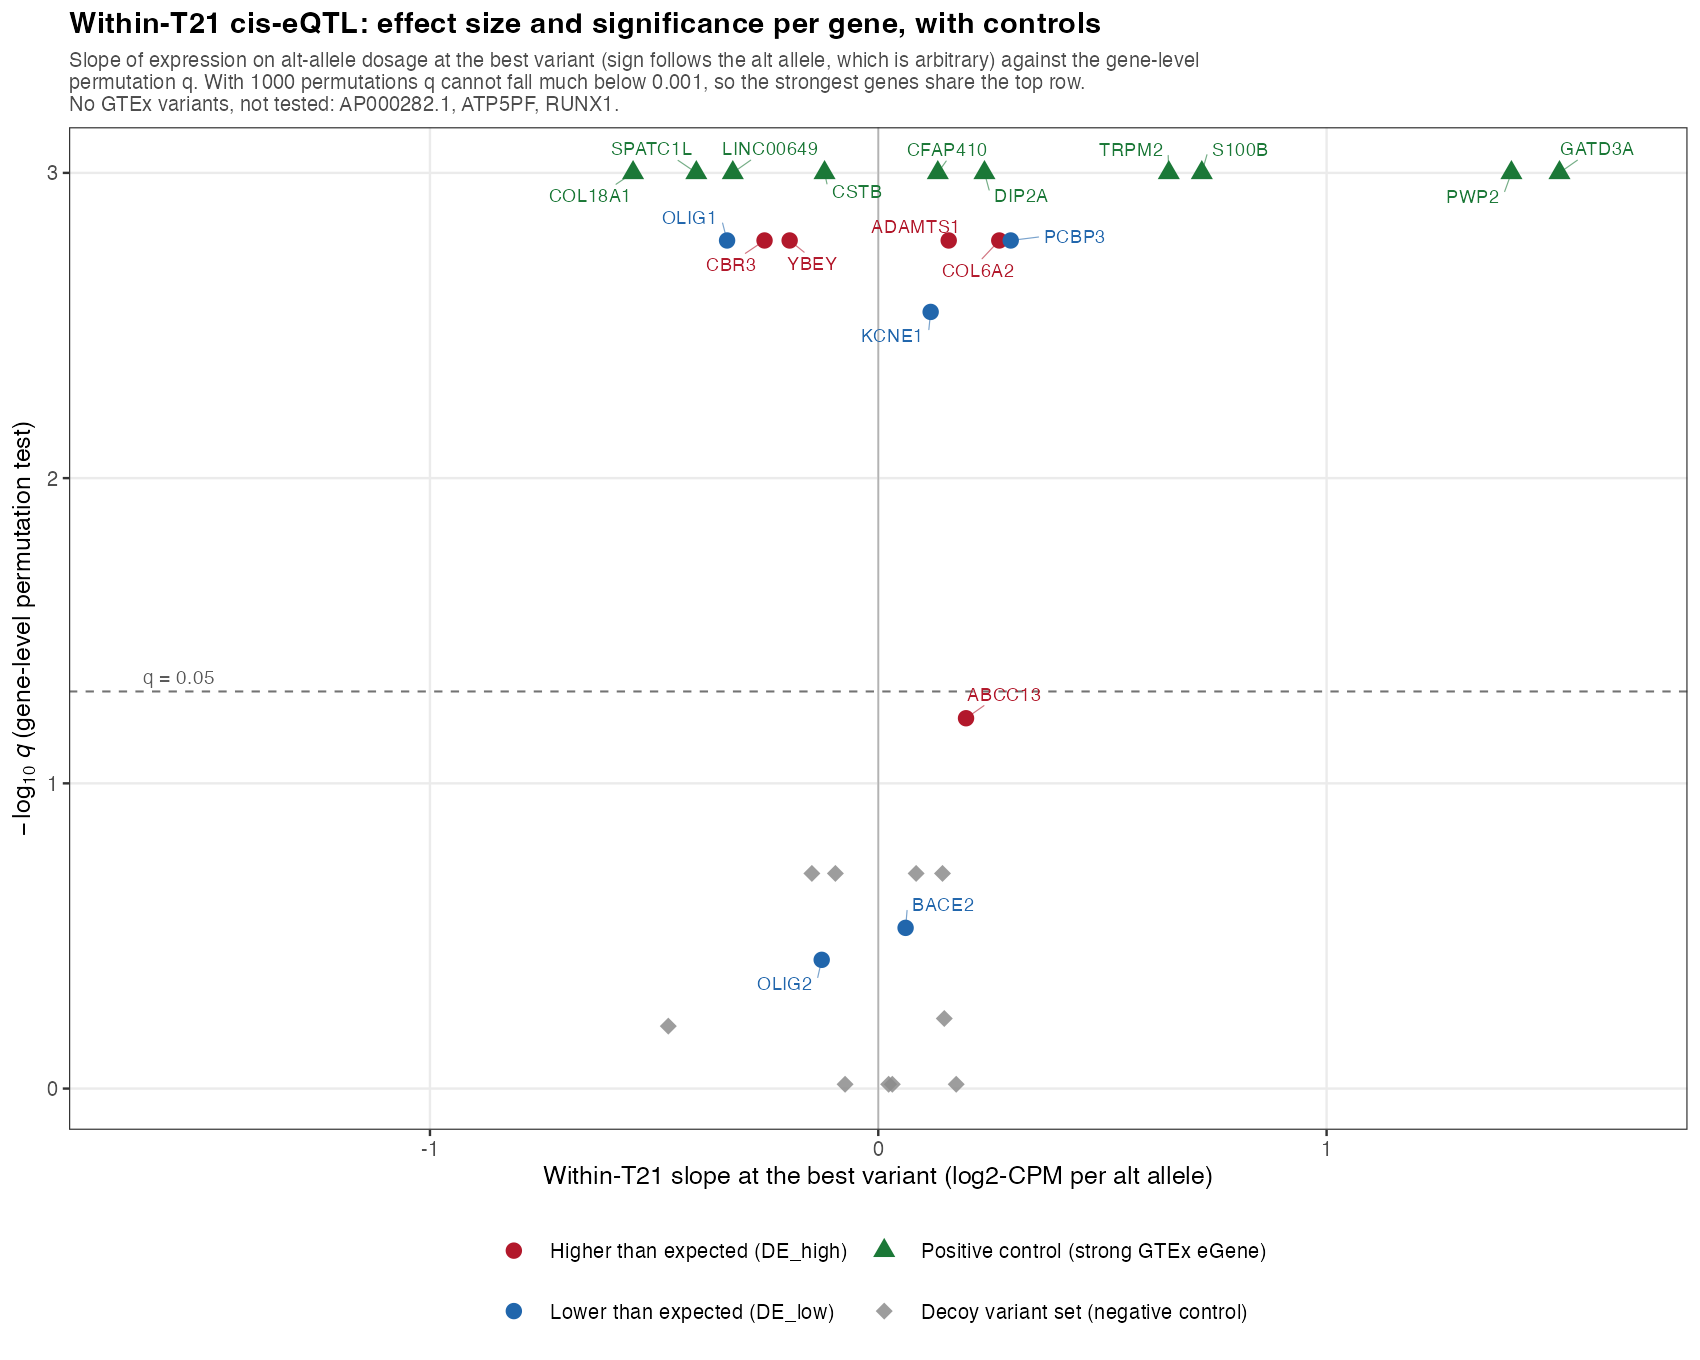
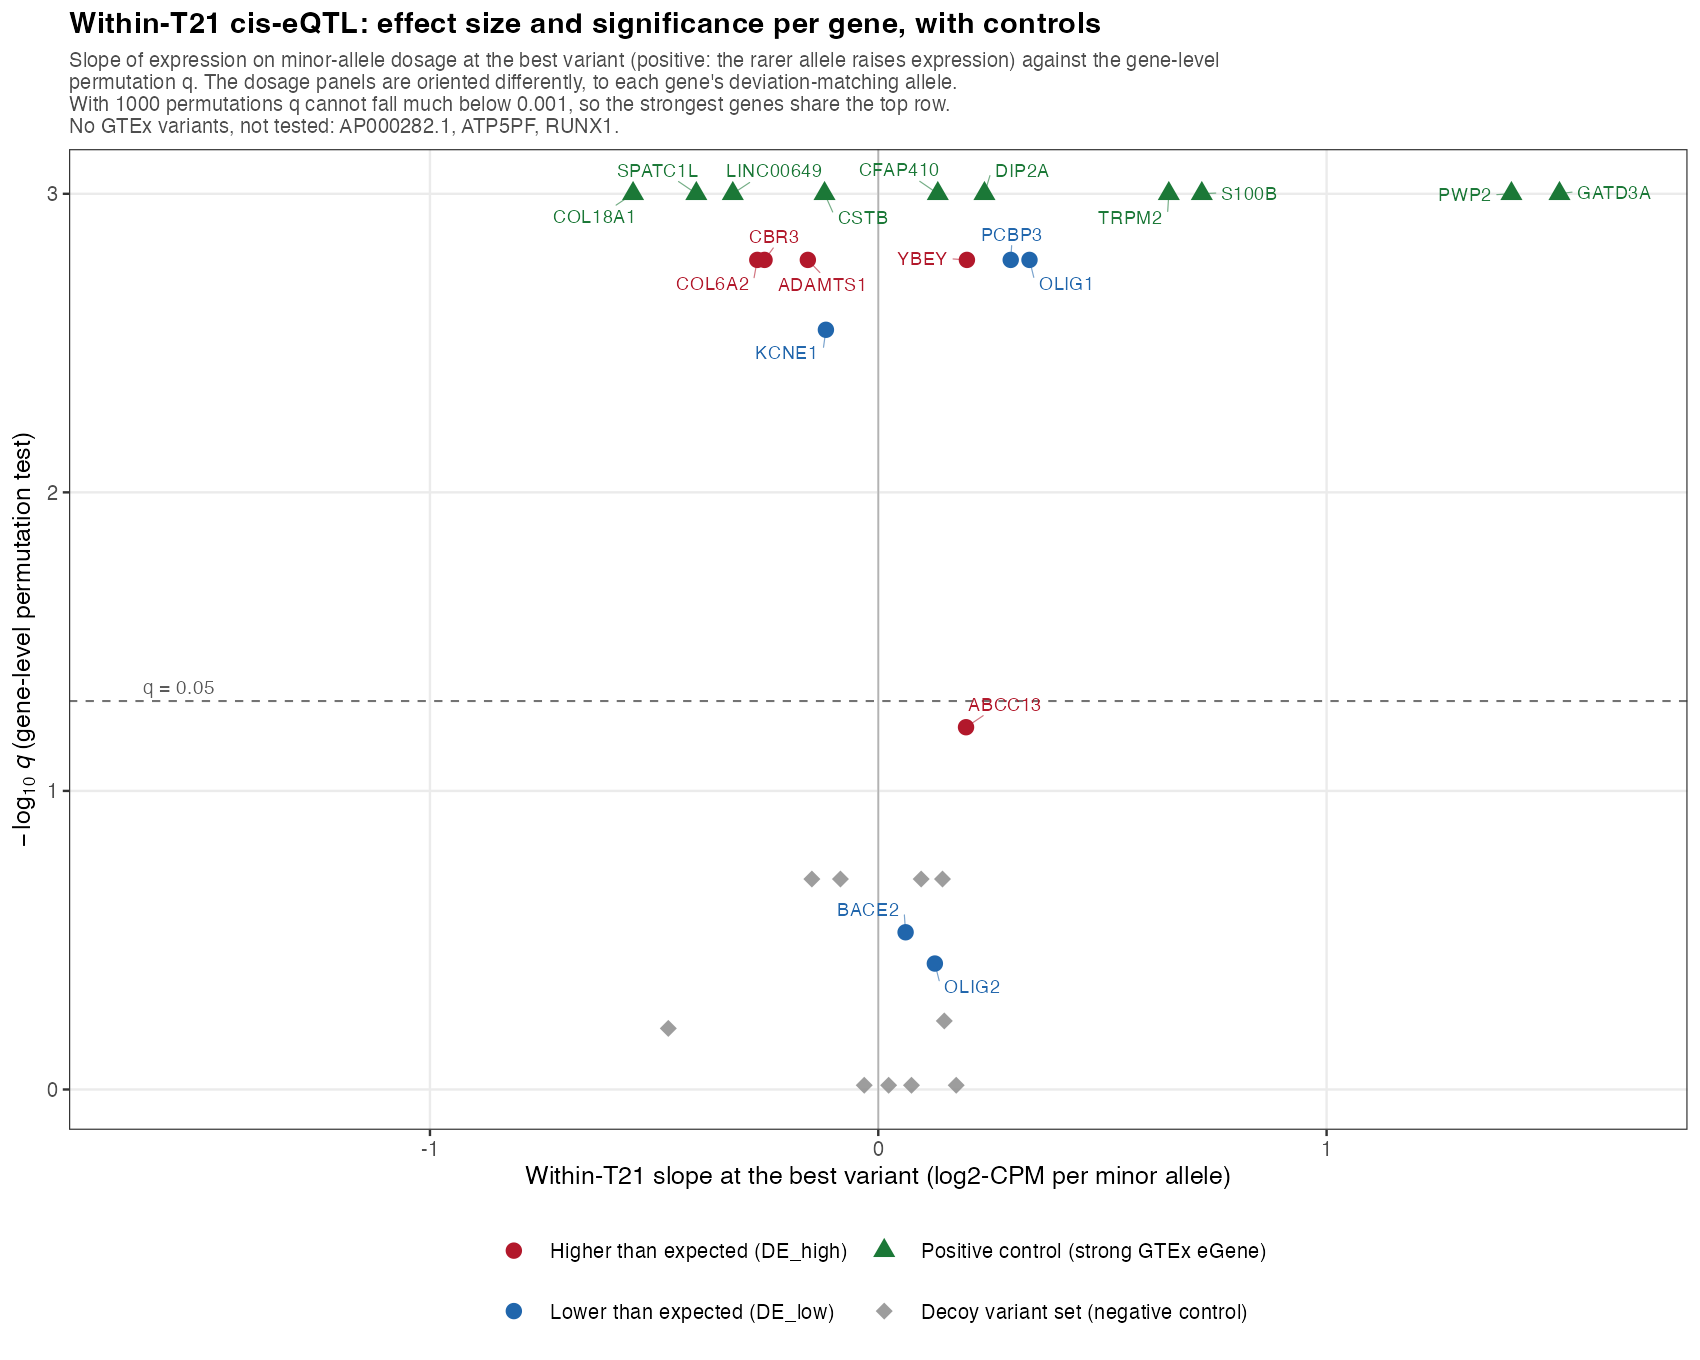
updated figures. Included more discussion.

diff --git a/content/05.discussion.md b/content/05.discussion.md
@@ -1,23 +1,34 @@
 ## Discussion  {.page_break_before}
 
-comment: I'd ask a bit of context just a sentence to introduce the gap that we are solving and how
+Trisomy 21 increases the expression of most HSA21 genes by the expected 1.5-fold, yet there is a subset of HSA21 genes with expression more similar to disomic individuals [@doi:10.1186/s12915-023-01700-4; @doi:10.1038/s41467-024-49781-1]. 
+These deviations may  reflect genetic variation across the population, compensatory regulation, or technical artifacts. 
+No one had yet assessed the genetic variation hypothesis using the gene expression and WGS profiles from a population, level cohort of people with DS. 
 
-Trisomy 21 increases the expression of most HSA21 genes by the expected 1.5-fold, yet a subset of genes consistently deviates from this dosage expectation [@doi:10.1186/s12915-023-01700-4; @doi:10.1038/s41467-024-49781-1]. Whether these deviations reflect genetic variation, compensatory regulation, or technical artifacts has remained unclear, and the only direct test of the cis-eQTL hypothesis was limited to a single family [@doi:10.1186/s12915-023-01700-4].
+Hunter et al. tested the genetic regulation hypothesis wihtin a family cohort consisting of one T21 child, one D21 child and the two D21 parents [@doi:10.1186/s12915-023-01700-4]. 
+The authors that only 5 genes had expression levels similar to diploids after considering coverage, high repeat gene areas, and proper ploidy in differential expression analysis.  
+Through cross-referencing common cis-eQtTLs from GTEx whole blood profiles, the authors found that the genotype of the individual with DS explained the variance in *CLIC6*, *ITSN1*, and *C2CD2*, but not *LINC02246* and *BRWD1*. 
 
-comment: I think the gap and main finding is related to test conpensation and eqtl explanation in a large cohort compared to hunter et at
+In the present study, we did not find the same 5 deviating genes that Hunter et al. found.
+*ITSN1*, *C2CD2*, and *BRWD1* are expressed in whole blood and sit at the expected dosage.
+*CLIC6* and *LINC02246* had low coverage.
+The studies differ in cell type and cohort size. 
+Hunter et al. measured lymphoblastoid cell lines in a cohort of 4 compared to the 354 whole blood profiles in this study. 
+Yet the two studies agree on the mechanism: allele dosage explains the variance of most transcriptomic anomalies in people with T21. 
 
-This study supports the conclusion that allele dosage determines most transcriptomic anomalies in people with T21. We demonstrated that the majority of HSA21 genes show the expected 1.5-fold change in gene expression if we filter high repeating genes, genes with low coverage, and adjust the differential expression pipeline for sample ploidy. 
-Within the 13 genes that still significantly deviated, 7 showed similar patterns in allele frequency to the typical population in common eQTLs ({@fig:chr21-map}). 
-However, 6 genes remain candidates for non cis-eQTL mechanisms underlying their deviance from the expected expression.
+We demonstrated that the majority of HSA21 genes show the expected 1.5-fold change in gene expression if we filter high repeating genes, genes with low coverage, and adjust the differential expression pipeline for sample ploidy.
+We tested for deviation both above and below the expected dosage. 
+The compensation hypothesis predicts that genes are down regulated toward euploid levels. 
+However, eQTLs can lead to increases or decreases in expression counts.  
+We found 13 genes that still significantly deviated. 
 
-comment: not sure if this figure is better in results
-![Chromosome 21 map marking each deviating gene and its cis-eQTL detection status.](images/figures/fig_chr21_deviating_map.png){#fig:chr21-map width="90%"}
+Six genes had higher than expected expression, 4 of which had a detected cis-eQTL (*CBR3*, *ADAMTS1*, *YBEY*, *COL6A2*), 1 did not have a pattern of expression based on allele frequency (*ABCC13*), and 1 had no GTEx variant to test (*ATP5PF*).
+*ABCC13* is a transcribed pseudogene [@doi:10.1016/j.ygeno.2004.02.010; @doi:10.1016/s0006-291x(02)02658-x].
+There is not a clear explanation in the literature for the deviation. 
+However, the fact that most higher than expected genes have common cis-eQTLs confirms the genetic effect in the population regardless of any potential dosage compensation.
 
-We can not rule out *ATP5PF*, *RUNX1*, or *AP000282.1* because there were not common eQTLs to test.
-The cohort is underpowered to detect new eQTLs. 
-However, a lack of evidence is weaker than those where the genotypes did not align in the cohort (*ABCC13*, *BACE2*,*OLIG2*). A literature search provides potential explanations of regulatory effects to account for the deviation of these 3 genes. For example, well documented chronic interferon (IFN) signaling in DS may repress *BACE2* transcription through STAT-driven silencers and IFN-induced microRNAs[@].
+For the lower than expected genes, 3 had a detected cis-eQTL (*OLIG1*, *KCNE1*, *PCBP3*), 2 did not show a significant pattern for the cis-EQTLs in their gene region (*BACE2*, *OLIG2*), and two had no GTEx variant to test (*AP000282.1*, *RUNX1*).
 
-**ADD MORE EXPLANATION HERE**
+**potential compensation mechanisms for these genes**
 
 There multiple other additional factors which may explain gene expression deviance.
 Candidate non-genetic mechanisms for the lower-than-expected transcript counts include autoregulatory feedback loops, post-transcriptional silencing by triplicated HSA21 miRNAs, cell-composition shifts, chromatin remodeling, alternative splicing into unstable isoforms, or other genomic effects (e.g., pQTLs, trans-eQTLs). 

diff --git a/content/04.results.md b/content/04.results.md
@@ -69,14 +69,14 @@ Of the remaining 10 testable genes, 7 have a detected cis-eQTL and 3 do not (*AB
 
 Table: cis-eQTL status of the 13 genes that deviate from the ploidy expectation in the primary (adjusted) analysis. {#tbl:eqtl-genes}
 
-![For each deviating gene, expression level against copy number of its strongest-linked variant](images/figures/fig_eqtl_dosage_panels.png){#fig:eqtl-dosage width="100%"}
+![For each deviating gene, expression against allele copy number in T21, at the variant with the strongest within-cohort signal. Each panel is drawn against the allele that GTEx links to that gene's own direction of deviation. A panel therefore trends up in A, the genes expressed higher than expected, and down in B, the genes expressed lower, when the cohort reproduces the GTEx direction. Panel labels give the minor allele, its frequency, and whether the minor allele runs with or against the deviation.](images/figures/fig_eqtl_dosage_panels.png){#fig:eqtl-dosage width="100%"}
 
-Effect sizes on the deviating genes' own best variants were modest (~0.13-0.20 log2-CPM per additional variant copy).
+Effect sizes on the deviating genes' own best variants were modest (~0.13-0.20 log2-CPM per additional copy of the minor allele).
 The effect sizes were similar in magnitude to negative controls (~0.12), which tested variants near an unrelated gene ≥5 Mb away.  
 The effect sizes were much smaller than positive controls (~0.48), which included the 10 HSA21 genes with the strongest GTEx whole-blood eQTL signal ({@fig:eqtl-effects}, {@fig:s3-eqtl-dosage-controls}).
 
-![Effect size vs. statistical confidence for the deviating genes and their positive and negative controls.](images/figures/fig_eqtl_effect_sizes.png){#fig:eqtl-effects width="90%"}
+![Effect size against statistical confidence for the deviating genes and their positive and negative controls. Slopes are signed by the minor allele, so a positive value means the rarer allele raises expression. The dashed line marks the q = 0.05 threshold for detection.](images/figures/fig_eqtl_effect_sizes.png){#fig:eqtl-effects width="90%"}
 
-In summary, after ploidy correction most HSA21 genes showed the expected increase with gene dosage. Only 13 deviated. Common cis-eQTLs may explain some of the variance in 7 of the deviating genes, though the effect sizes are small. Six genes remain open candidates for a mechanism other than a common cis-eQTL: 3 that were tested and showed no genetic signal (*ABCC13*, *BACE2*, *OLIG2*), and 3 could not be tested for lack of common GTEx data (*ATP5PF*, *RUNX1*, *AP000282.1*) ({@fig:sankey}). 
+In summary, after ploidy correction most HSA21 genes showed the expected increase with gene dosage. Only 13 deviated. Common cis-eQTLs may explain some of the variance in 7 of the deviating genes, though the effect sizes are small. Six genes remain open candidates for a mechanism other than a common cis-eQTL: 3 that were tested and showed no genetic signal (*ABCC13*, *BACE2*, *OLIG2*), and 3 could not be tested for lack of common GTEx data (*ATP5PF*, *RUNX1*, *AP000282.1*) ({@fig:flow-map}). 
 
-![Sankey plot of gene classification](images/figures/Sankey.png){#fig:sankey width="90%"}
+![Classification of the 318 targeted HSA21 genes and the position of the genes that deviate. A: flow of every gene from the full set, through the dosage classification, to its cis-eQTL outcome. B: chromosome 21 with a band at the transcription start site of each deviating gene, colored by cis-eQTL detection status. Labels above the chromosome are genes expressed higher than expected; labels below are genes expressed lower.](images/figures/fig_lane_flow_and_map.png){#fig:flow-map width="100%"}

diff --git a/content/03.methods.md b/content/03.methods.md
@@ -70,6 +70,9 @@ Deviating genes were further stratified into tier 1 (≥50% deviation from the 1
 ### cis-eQTL association testing
 For each deviating gene, we retrieved all variants within ±1 Mb that GTEx annotates as at least nominally associated with that gene's expression in whole blood.
 We regressed the covariate-adjusted expression measure against genotype dosage (0-3 copies of the alternate allele) within T21 subjects, and retained each gene's strongest-associated variant. 
+The alternate allele is whichever base differs from the reference assembly, not the rarer one, and it is the major allele at about a fifth of these variants. 
+We therefore report every direction per copy of the minor allele, taking the minor allele from the GTEx whole-blood frequency and checking it against gnomAD v4.1. 
+This is a sign convention: reversing a genotype code flips the sign of its slope and leaves the standard error, the p-value, and the detection call unchanged. 
 Statistical significance was assessed by a gene-level permutation test where expression values were shuffled across subjects 1,000 times, the same variant search was repeated on each shuffle, and the fraction of shuffles producing an association at least as strong as the observed one gave a gene-level permutation p-value. 
 Permutation p-values were adjusted for multiple testing across genes using the Benjamini-Hochberg procedure [@https://www.jstor.org/stable/2346101}]. 
 We evaluated this procedure with two controls run through the identical pipeline.

diff --git a/content/91.supplement.md b/content/91.supplement.md
@@ -9,7 +9,7 @@ Before attributing a gene's deviation from the 1.5-fold expectation to HSA21 dos
 ![Volcano plots of all target-biotype genes genome-wide, before and after ploidy correction, with HSA21 genes highlighted.](images/figures/fig_volcano_all_genes.png){#fig:s2-volcano-all width="100%"}
 
 ## Supplement C: eQTL dosage controls
-![For each deviating gene, expression level against copy number of its strongest-linked variant for positive and negative controls](images/figures/fig_eqtl_dosage_controls.png){#fig:s3-eqtl-dosage-controls width="100%"}
+![Positive and negative controls, in the same layout as the main dosage figure. Neither set has a direction of deviation to match, so both are drawn against minor-allele copy number. A: the 10 HSA21 genes with the strongest GTEx whole-blood eQTL signal. B: each deviating gene tested against variants near an unrelated gene at least 5 Mb away.](images/figures/fig_eqtl_dosage_controls.png){#fig:s3-eqtl-dosage-controls width="100%"}
 
 
 ### Supplement D: Comparison to the unadjusted analysis
